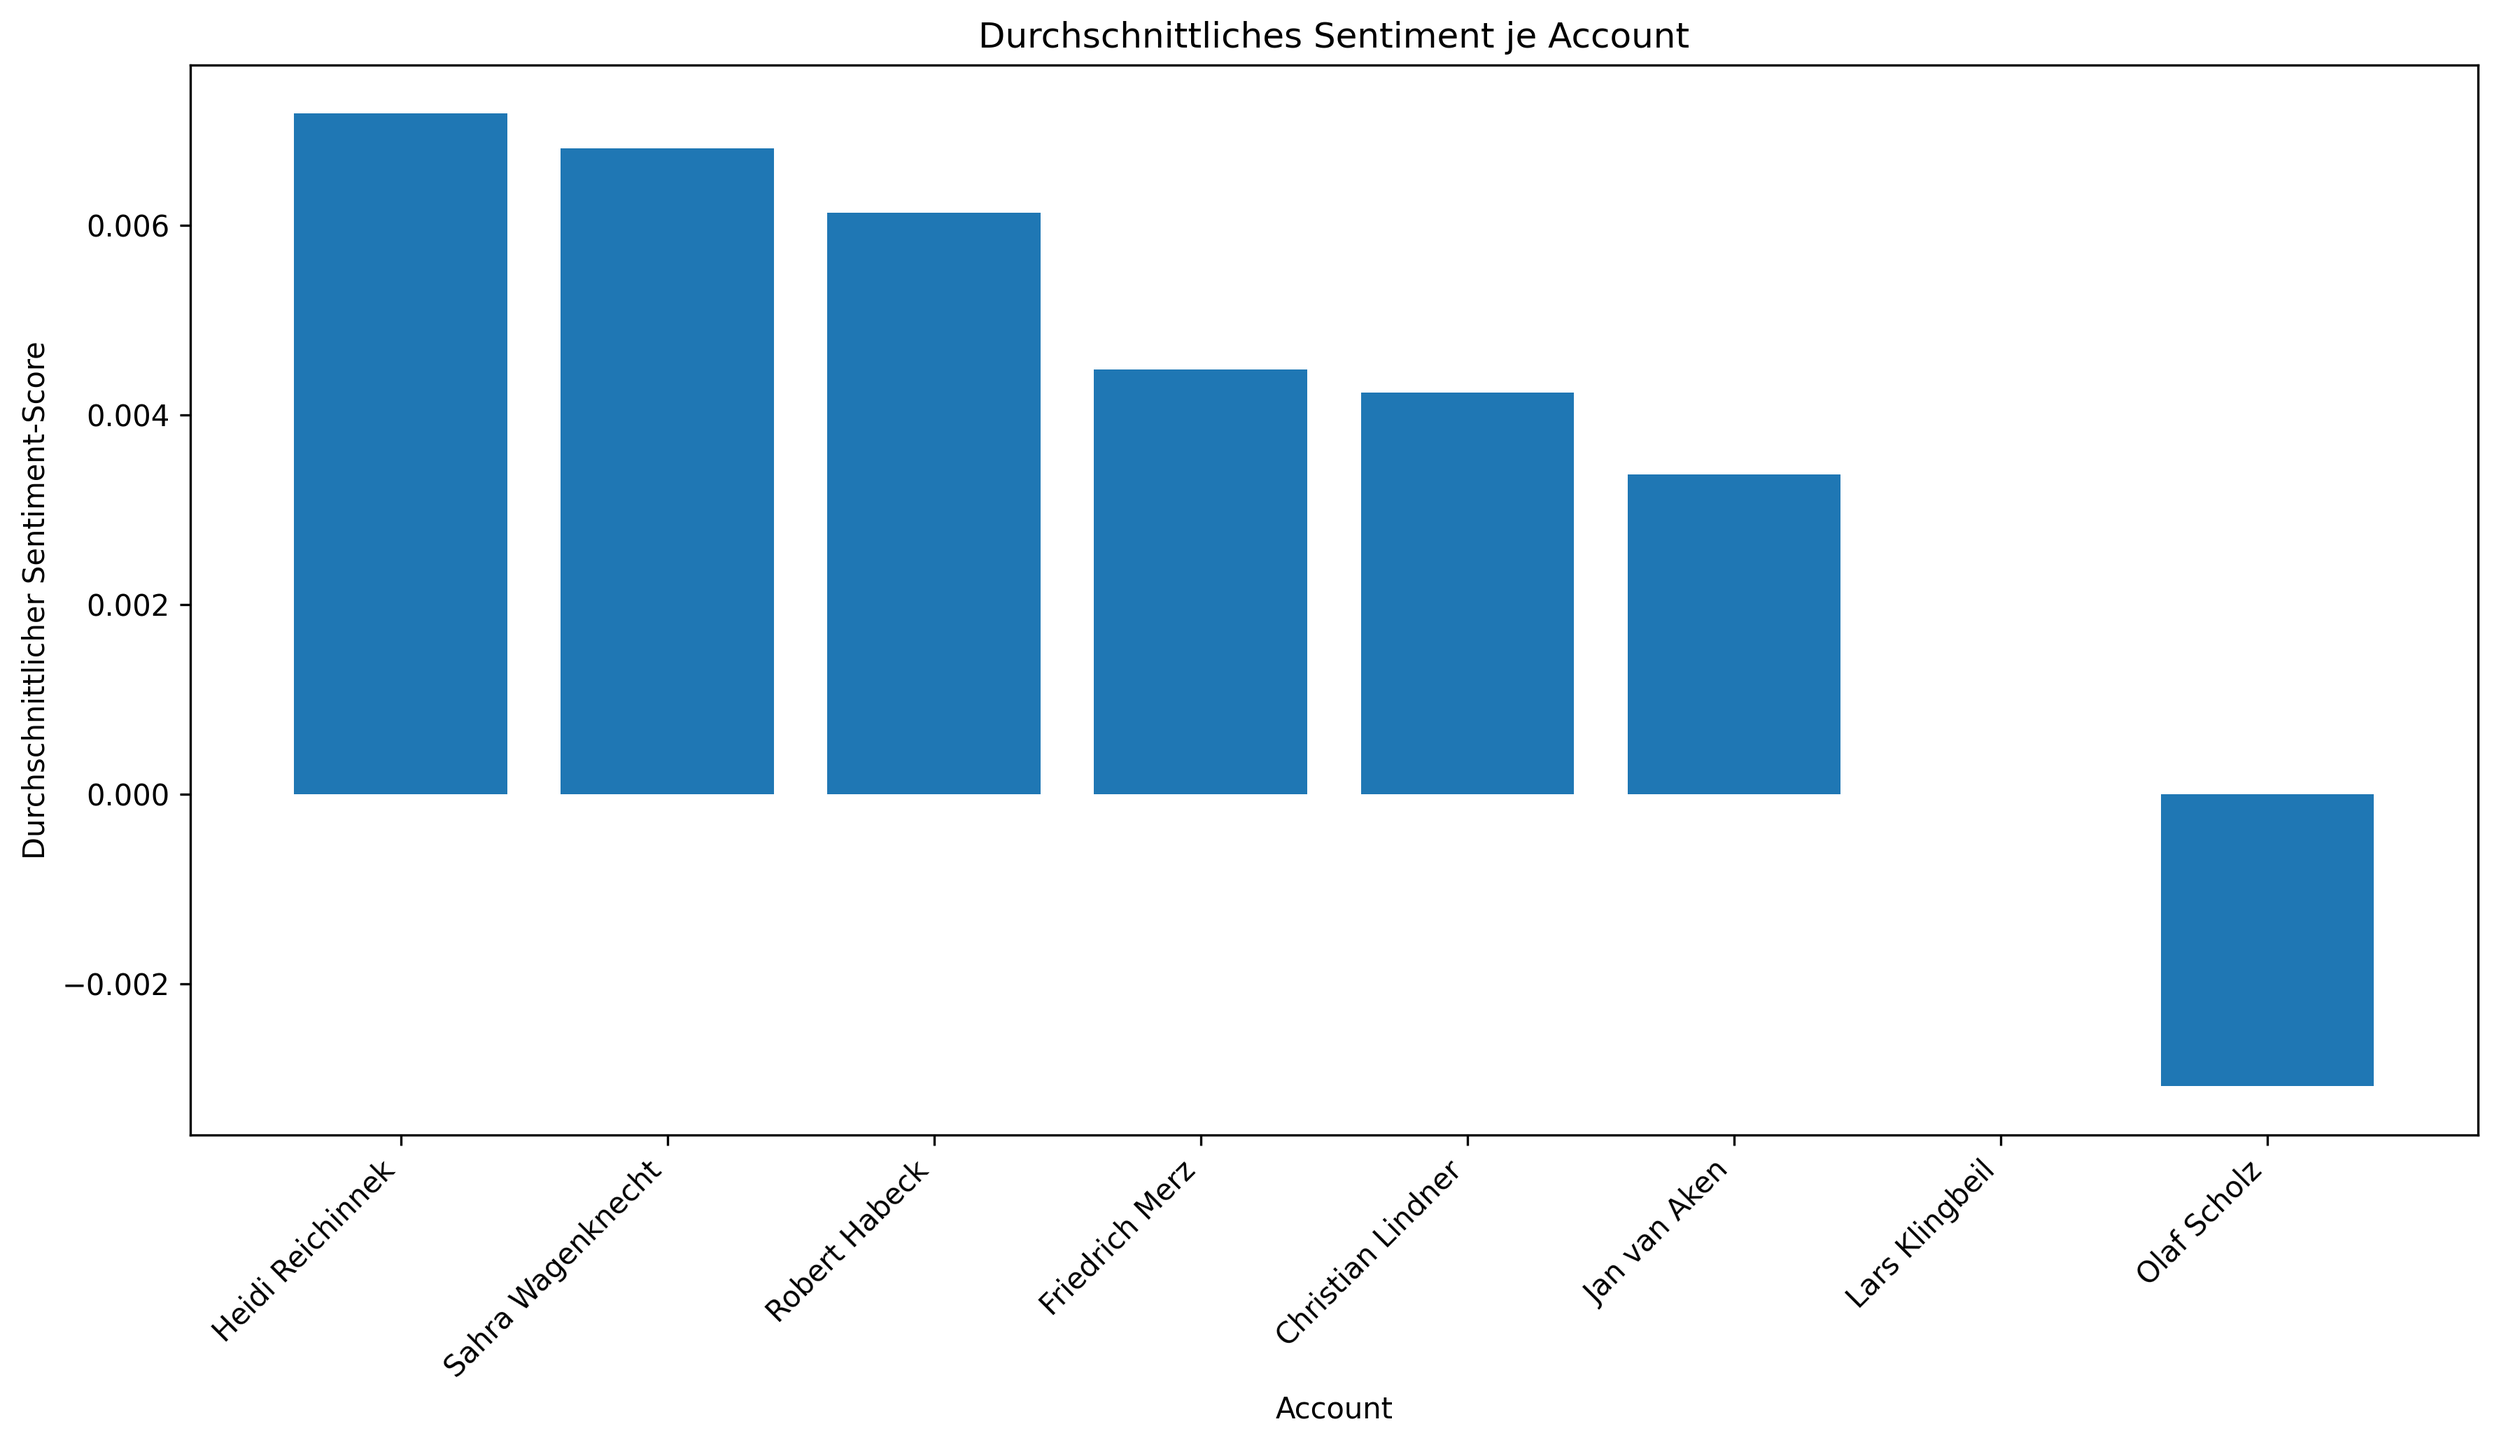
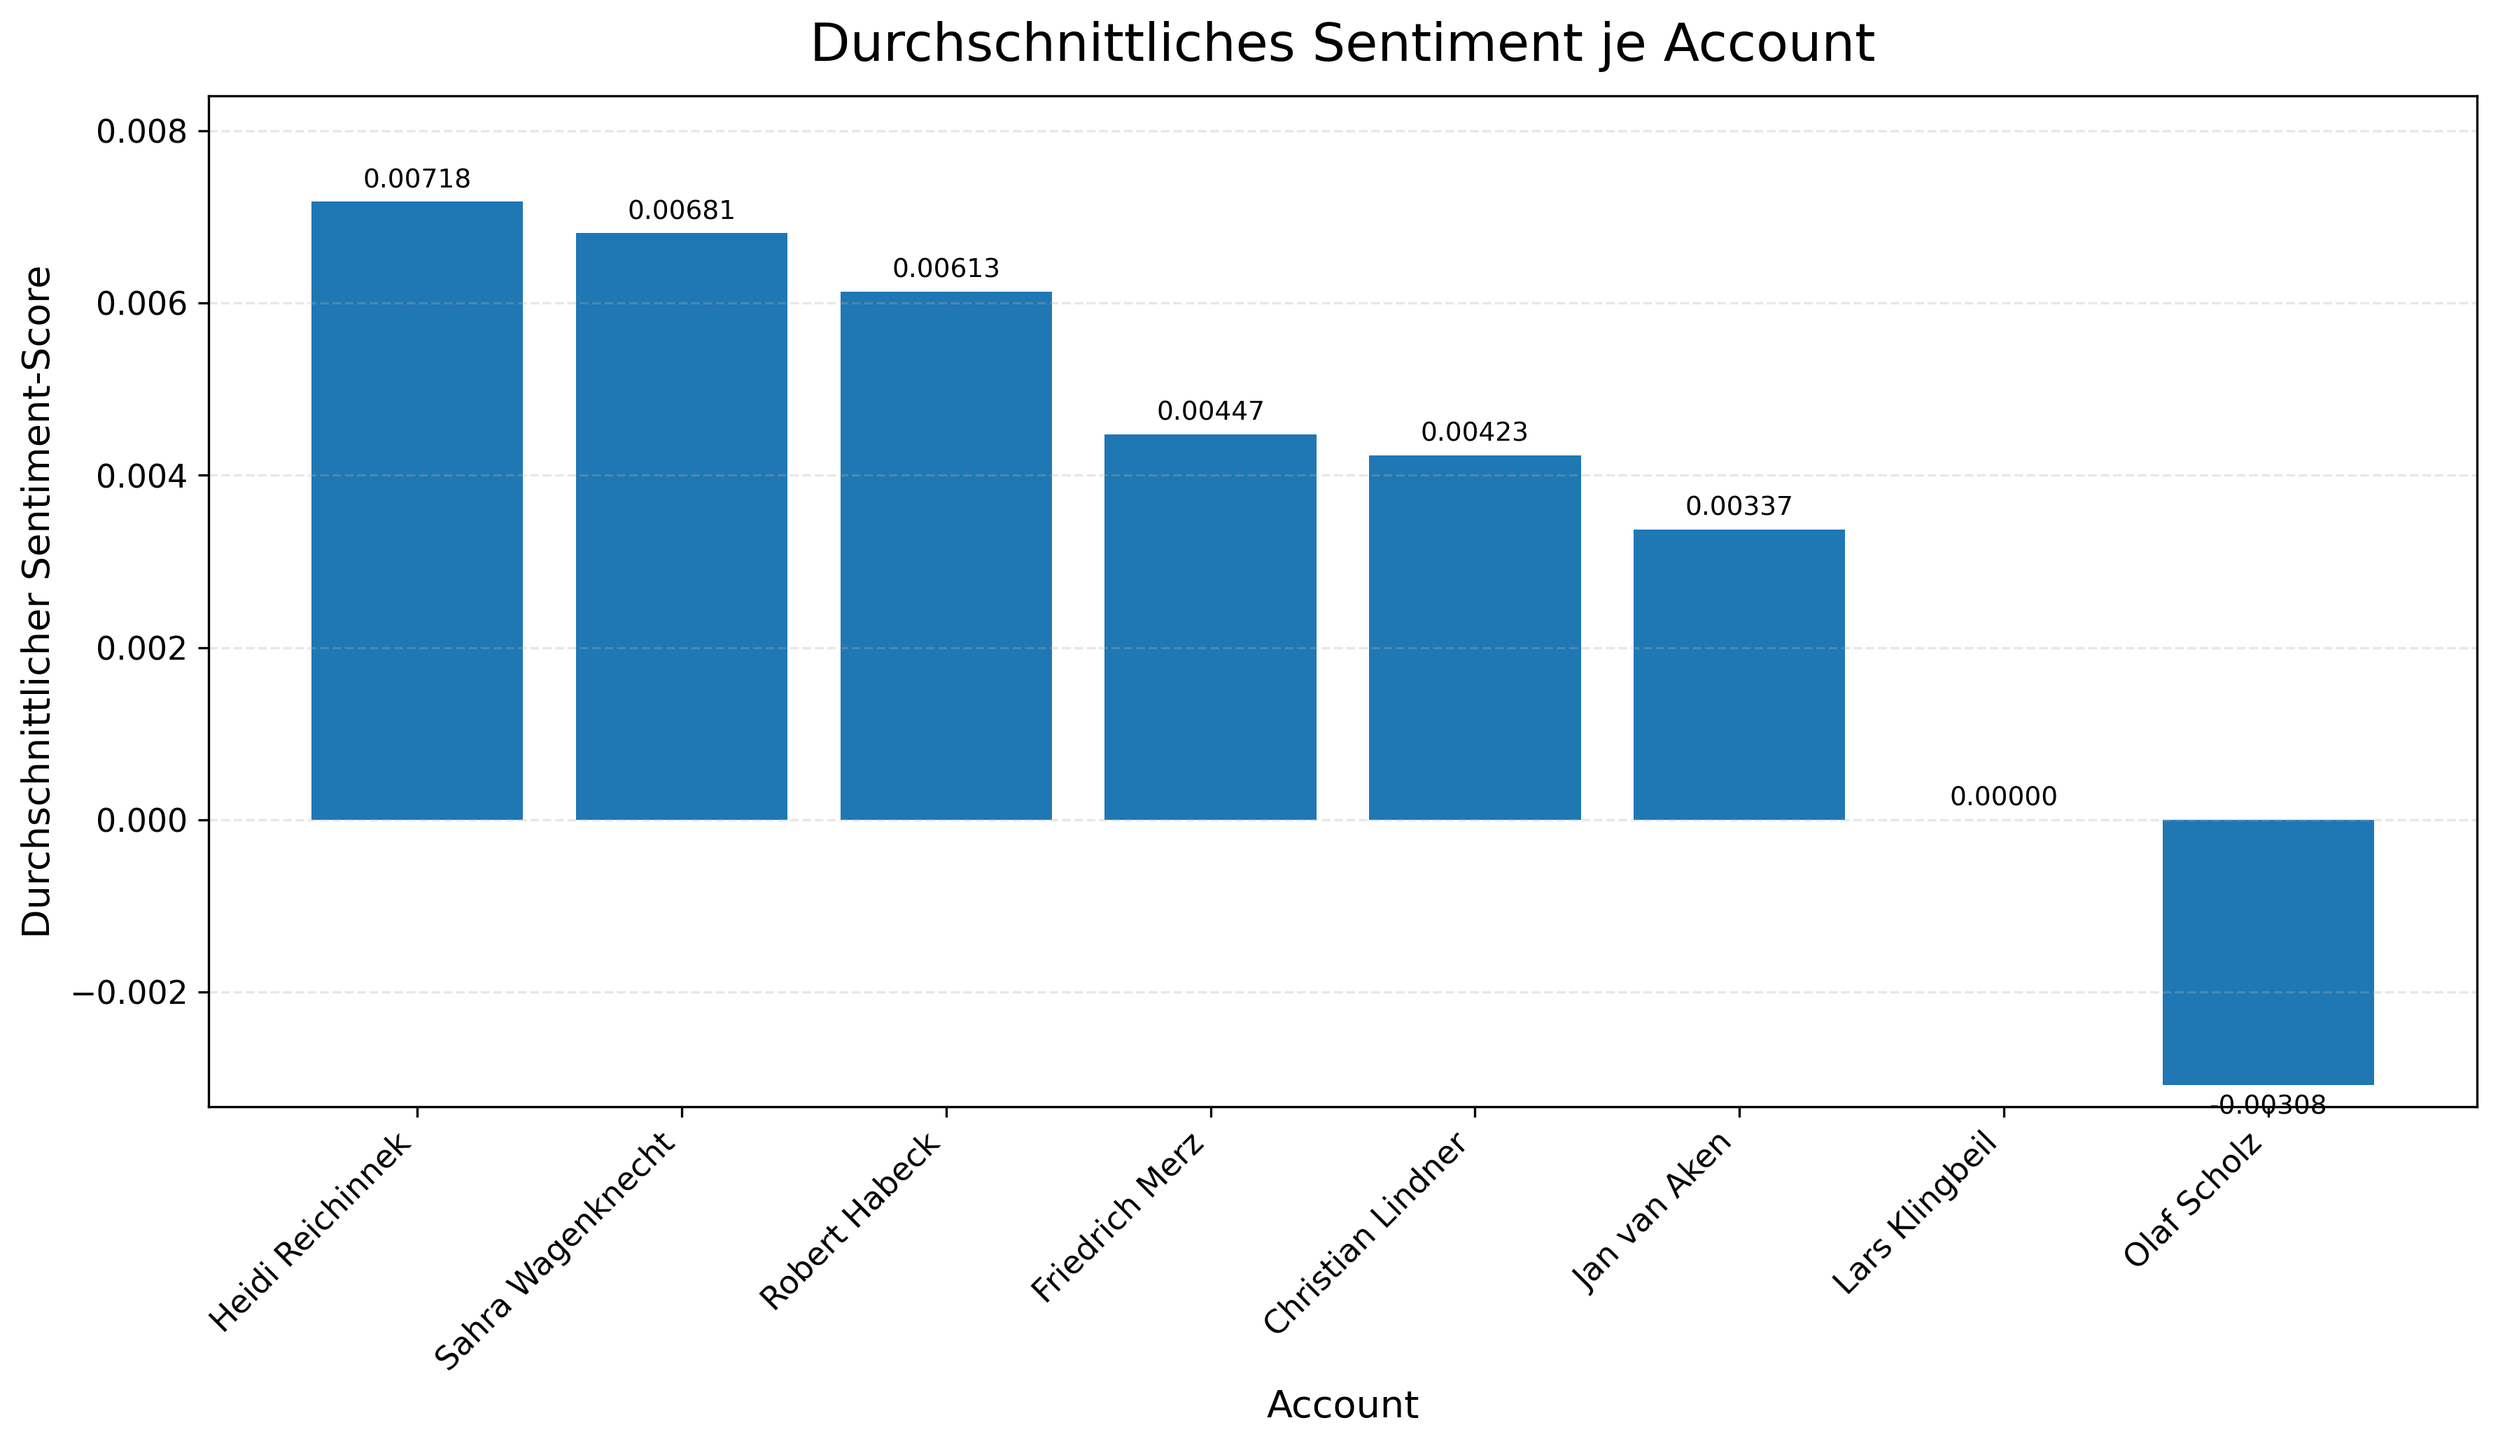
Refine sentiment visualizations for report

diff --git a/scripts/11_visualize_sentiment.py b/scripts/11_visualize_sentiment.py
@@ -5,7 +5,7 @@ Erstellt Visualisierungen auf Basis der Sentiment-Analyse.
 
 Ziele:
 - durchschnittliches Sentiment nach Phase darstellen
-- Sentiment-Verteilung je Account darstellen
+- durchschnittliches Sentiment je Account darstellen
 
 Eingabedateien:
 - data/processed/sentiment_by_phase.csv
@@ -30,45 +30,129 @@ ACCOUNT_INPUT = INPUT_DIR / "sentiment_by_account.csv"
 PHASE_OUTPUT = OUTPUT_DIR / "sentiment_by_phase.png"
 ACCOUNT_OUTPUT = OUTPUT_DIR / "sentiment_by_account.png"
 
+PHASE_ORDER = ["Phase A", "Phase B"]
+
+FIGSIZE_PHASE = (8, 6)
+FIGSIZE_ACCOUNT = (12, 7)
+DPI = 300
+
+TITLE_SIZE = 18
+LABEL_SIZE = 13
+TICK_SIZE = 11
+
 
 def ensure_output_directory() -> None:
+    """
+    Stellt sicher, dass der Zielordner für Grafiken existiert.
+    """
     OUTPUT_DIR.mkdir(parents=True, exist_ok=True)
 
 
 def load_data() -> tuple[pd.DataFrame, pd.DataFrame]:
+    """
+    Lädt die Sentiment-Daten.
+    """
     phase_df = pd.read_csv(PHASE_INPUT)
     account_df = pd.read_csv(ACCOUNT_INPUT)
     return phase_df, account_df
 
 
-def plot_sentiment_by_phase(phase_df: pd.DataFrame) -> None:
-    plot_df = phase_df.sort_values("phase").copy()
+def add_bar_labels(ax: plt.Axes, decimals: int = 5) -> None:
+    """
+    Schreibt numerische Werte oberhalb der Balken.
+    """
+    for container in ax.containers:
+        labels = []
+        for bar in container:
+            height = bar.get_height()
+            if pd.isna(height):
+                labels.append("")
+            else:
+                labels.append(f"{height:.{decimals}f}")
+        ax.bar_label(container, labels=labels, padding=3, fontsize=10)
 
-    plt.figure(figsize=(8, 6))
-    plt.bar(plot_df["phase"], plot_df["avg_sentiment"])
-    plt.title("Durchschnittliches Sentiment nach Phase")
-    plt.xlabel("Phase")
-    plt.ylabel("Durchschnittlicher Sentiment-Score")
+
+def plot_sentiment_by_phase(phase_df: pd.DataFrame) -> None:
+    """
+    Erstellt eine Grafik des durchschnittlichen Sentiments nach Phase.
+    """
+    plot_df = phase_df.copy()
+
+    if "phase" in plot_df.columns:
+        plot_df["phase"] = pd.Categorical(
+            plot_df["phase"],
+            categories=PHASE_ORDER,
+            ordered=True
+        )
+        plot_df = plot_df.sort_values("phase")
+
+    fig, ax = plt.subplots(figsize=FIGSIZE_PHASE)
+    bars = ax.bar(plot_df["phase"].astype(str), plot_df["avg_sentiment"])
+
+    ax.set_title("Durchschnittliches Sentiment nach Phase", fontsize=TITLE_SIZE, pad=12)
+    ax.set_xlabel("Phase", fontsize=LABEL_SIZE)
+    ax.set_ylabel("Durchschnittlicher Sentiment-Score", fontsize=LABEL_SIZE)
+    ax.tick_params(axis="x", labelsize=TICK_SIZE)
+    ax.tick_params(axis="y", labelsize=TICK_SIZE)
+    ax.grid(axis="y", linestyle="--", alpha=0.3)
+
+    ax.bar_label(
+        bars,
+        labels=[f"{value:.5f}" for value in plot_df["avg_sentiment"]],
+        padding=3,
+        fontsize=10
+    )
+
+    ymin = min(plot_df["avg_sentiment"].min(), 0)
+    ymax = plot_df["avg_sentiment"].max()
+    y_range = ymax - ymin
+    padding = max(y_range * 0.15, 0.0005)
+    ax.set_ylim(ymin - padding * 0.2, ymax + padding)
+
     plt.tight_layout()
-    plt.savefig(PHASE_OUTPUT, dpi=300, bbox_inches="tight")
+    plt.savefig(PHASE_OUTPUT, dpi=DPI, bbox_inches="tight")
     plt.close()
 
 
 def plot_sentiment_by_account(account_df: pd.DataFrame) -> None:
+    """
+    Erstellt eine Grafik des durchschnittlichen Sentiments je Account.
+    """
     plot_df = account_df.sort_values("avg_sentiment", ascending=False).copy()
 
-    plt.figure(figsize=(12, 7))
-    plt.bar(plot_df["account_name"], plot_df["avg_sentiment"])
-    plt.title("Durchschnittliches Sentiment je Account")
-    plt.xlabel("Account")
-    plt.ylabel("Durchschnittlicher Sentiment-Score")
-    plt.xticks(rotation=45, ha="right")
+    fig, ax = plt.subplots(figsize=FIGSIZE_ACCOUNT)
+    bars = ax.bar(plot_df["account_name"], plot_df["avg_sentiment"])
+
+    ax.set_title("Durchschnittliches Sentiment je Account", fontsize=TITLE_SIZE, pad=12)
+    ax.set_xlabel("Account", fontsize=LABEL_SIZE)
+    ax.set_ylabel("Durchschnittlicher Sentiment-Score", fontsize=LABEL_SIZE)
+    ax.tick_params(axis="x", rotation=45, labelsize=TICK_SIZE)
+    ax.tick_params(axis="y", labelsize=TICK_SIZE)
+    plt.xticks(ha="right")
+    ax.grid(axis="y", linestyle="--", alpha=0.3)
+
+    ax.bar_label(
+        bars,
+        labels=[f"{value:.5f}" for value in plot_df["avg_sentiment"]],
+        padding=3,
+        fontsize=9
+    )
+
+    ymin = min(plot_df["avg_sentiment"].min(), 0)
+    ymax = plot_df["avg_sentiment"].max()
+    y_range = ymax - ymin
+    padding = max(y_range * 0.12, 0.0005)
+    ax.set_ylim(ymin - padding * 0.2, ymax + padding)
+
     plt.tight_layout()
-    plt.savefig(ACCOUNT_OUTPUT, dpi=300, bbox_inches="tight")
+    plt.savefig(ACCOUNT_OUTPUT, dpi=DPI, bbox_inches="tight")
     plt.close()
 
 
 def main() -> None:
+    """
+    Führt die Visualisierung der Sentiment-Daten vollständig aus.
+    """
     ensure_output_directory()
 
     print("Lade Sentiment-Daten ...")
